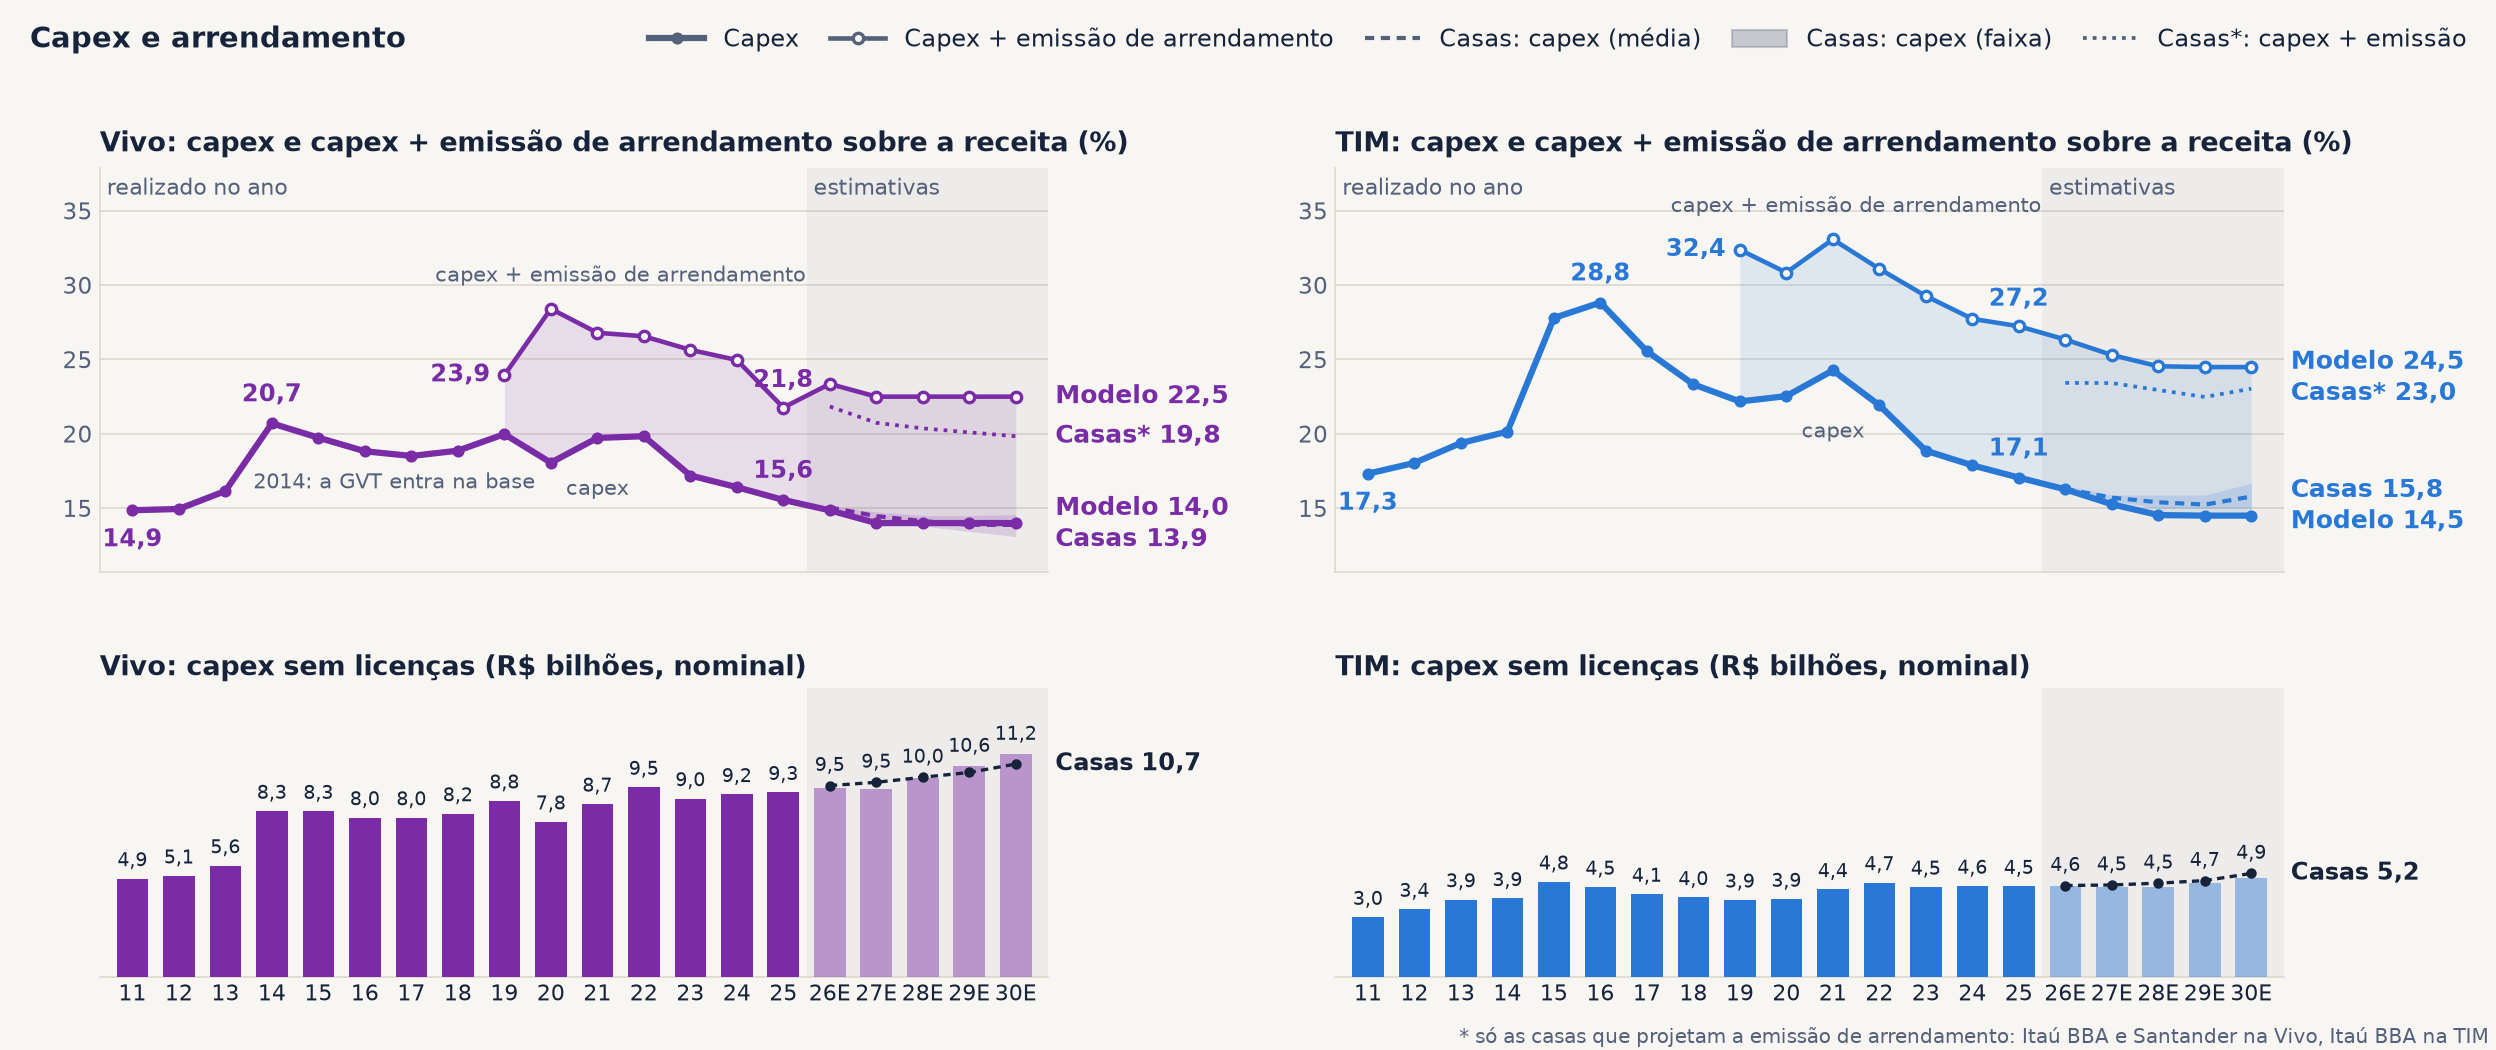
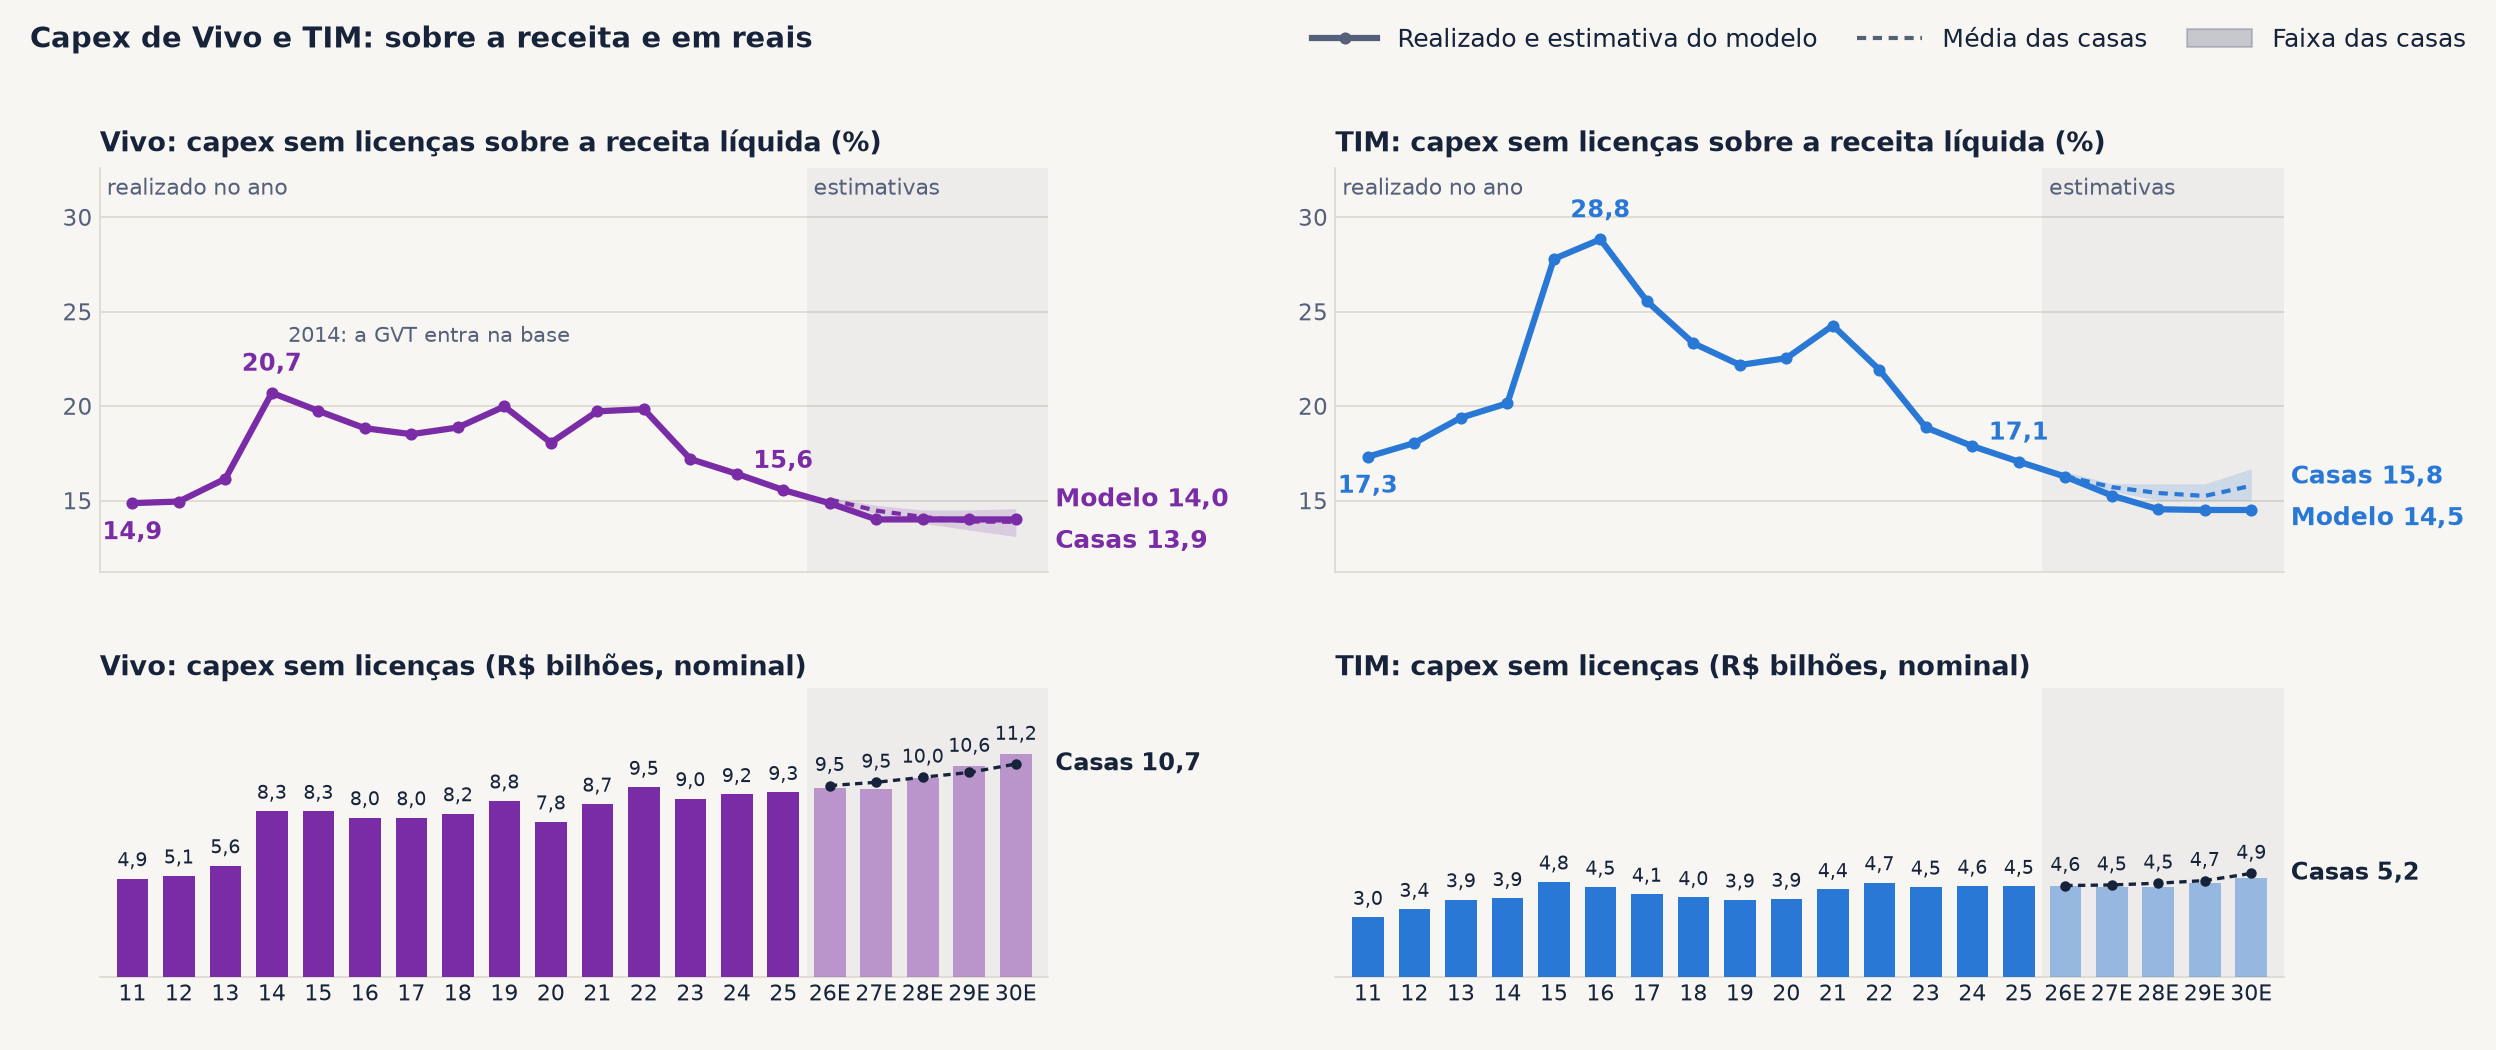
v5.0 - 24/11/2026 22:08 - dois slides de investimento: capex e capex + emissao
Slide 10 volta a ser so capex (razao desde 2011 e nominal). Slide 11 novo:
capex + emissao de arrendamento de 2019 a 2030E, empilhados, sobre a receita
e em R$ bilhoes, modelo contra as casas que projetam a emissao.

diff --git a/index.html b/index.html
@@ -40,7 +40,7 @@ h1, h2, h3 { font-family:'Space Grotesk', Arial, sans-serif; }
 <div id="palco">
 <section id="capa" class="capa" data-transition="fade">
 <div>
-<p class="chip">v4.9 · 24/11/2026 22:02</p>
+<p class="chip">v5.0 · 24/11/2026 22:08</p>
 </div>
 <div>
 <h1>Telecom Brasil: Vivo e TIM</h1>
@@ -105,11 +105,18 @@ h1, h2, h3 { font-family:'Space Grotesk', Arial, sans-serif; }
 <aside>Vivo: 9,7% em 2025; o modelo projeta 6,6% em 2026E e 2027E e 5,7% de 2028E em diante. Fica abaixo das casas em 2026E (7,4% a 8,3%), dentro em 2027E e 2028E e acima em 2029E e 2030E (3,0% a 5,3% em 2030E). TIM: 6,9% em 2025; o modelo projeta 6,3%, 5,8%, 6,1%, 4,9% e 4,2%. Dentro da faixa em 2026E e 2027E e acima de 2028E em diante (4,2% a 4,7% em 2028E; 3,7% a 4,1% em 2030E).</aside>
 </section>
 <section id="capex" data-transition="fade">
-<p class="olho">4 · CAPEX E EMISSÃO DE ARRENDAMENTO: SOBRE A RECEITA E EM REAIS</p>
-<h2 class="titulo">Capex cai para 15,6% da receita na Vivo e 17,1% na TIM; com a emissão de arrendamento o total é 21,8% e 27,2%, e o modelo mantém 22,5% e 24,5%</h2>
-<img class="graf" src="img/v7_capex.png" alt="Quatro gráficos de 2011 a 2030 estimado. Em cima, na mesma escala, o capex sem licenças sobre a receita líquida de Vivo e TIM e, de 2019 em diante, o capex mais a emissão de arrendamento, com a estimativa do modelo, a média e a faixa das casas para o capex e a média das casas que projetam a emissão. Embaixo, na mesma escala, o capex sem licenças em bilhões de reais nominais por ano, em barras, com a estimativa do modelo e a média das casas">
-<p class="fonte">Fonte: planilhas de RI, releases e modelos de 24/11/2026. Capex sem licenças; Vivo com a GVT de 2014 em diante (pro forma). Casas: Itaú BBA, BBI, BTG, Santander e, na Vivo, UBS. Emissão de arrendamento: só Itaú BBA e Santander (Vivo) e Itaú BBA (TIM).</p>
-<aside>Capex sem licenças sobre a receita. Vivo: 14,9% em 2011 e 2012, 16,2% em 2013, pico de 20,7% em 2014 (ano em que a GVT entra na base, pro forma), 19,7% em 2015, 18,8% em 2016, 18,5% em 2017, 18,9% em 2018, 20,0% em 2019, 18,1% em 2020, 19,7% em 2021, 19,8% em 2022, 17,2% em 2023, 16,4% em 2024 e 15,6% em 2025. TIM: 17,3% em 2011, 18,0% em 2012, 19,4% em 2013, 20,1% em 2014, 27,8% em 2015, pico de 28,8% em 2016, 25,6% em 2017, 23,3% em 2018, 22,2% em 2019, 22,5% em 2020, 24,3% em 2021, 21,9% em 2022, 18,9% em 2023, 17,9% em 2024 e 17,1% em 2025. Dois ciclos: a rede 4G em 2014-2016 (na TIM com a receita caindo de R$ 20,0 bilhões em 2013 para R$ 15,6 bilhões em 2016) e o 5G com fibra em 2019-2022. Em reais nominais: Vivo de R$ 4,9 bilhões em 2011 para R$ 8,3 bilhões em 2014 e 2015, R$ 8,8 bilhões em 2019, R$ 9,5 bilhões em 2022 e R$ 9,3 bilhões em 2025; TIM de R$ 3,0 bilhões em 2011 para R$ 4,8 bilhões em 2015, R$ 3,9 bilhões em 2019, R$ 4,7 bilhões em 2022 e R$ 4,5 bilhões em 2025. Em dez anos (2015 a 2025) o capex nominal sobe 11% na Vivo e cai 5% na TIM, com a receita subindo 41% e 55%: a queda da razão desde 2022 é receita, não corte. Em reais de 2025 o capex cai de R$ 14,1 bilhões para R$ 9,3 bilhões na Vivo e de R$ 8,1 bilhões para R$ 4,5 bilhões na TIM entre 2015 e 2025. Estimativas. Vivo: o modelo põe 14,9% em 2026E e 14,0% de 2027E a 2030E (premissa baixada de 14,5% para 14,0% em 24/11/2026), com o capex parado em R$ 9,5 bilhões em 2026E e 2027E e subindo com a receita até R$ 11,2 bilhões em 2030E; casas em 15,1%, 14,5%, 14,1%, 13,9% e 13,9% (faixa de 13,1% a 14,6% em 2030E), com R$ 10,7 bilhões em 2030E; o modelo fica 0,5 ponto abaixo da média em 2027E, na média em 2028E e 0,1 acima em 2030E, com R$ 0,5 bilhão a mais de capex que a média das casas em 2030E. TIM: o modelo põe 16,3%, 15,3% e 14,5% de 2028E a 2030E, com o capex em R$ 4,5 bilhões em 2027E e 2028E e R$ 4,9 bilhões em 2030E; casas em 16,3%, 15,7%, 15,4%, 15,2% e 15,8% (faixa de 15,0% a 16,7% em 2030E), com R$ 5,2 bilhões em 2030E; o modelo fica 1,3 ponto abaixo da média e abaixo da casa mais baixa de 2028E em diante. Os 14,0% da Vivo e os 14,5% da TIM no modelo são o menor nível de cada série desde 2011 (a Vivo teve 14,9% em 2011 e 2012, antes da GVT). Fontes do realizado: Vivo pelo modelo até 2018 e pelo capex sem licenças da planilha de RI de 2019 em diante; TIM pelo modelo, com o capex orgânico de 2012 e 2014 dos releases e 2021 pelo capex sem licenças da companhia (R$ 4,38 bilhões). Capex mais emissão de arrendamento sobre a receita (de 2019 em diante, com o IFRS 16). Vivo: 23,9% em 2019, 28,4% em 2020, 26,8% em 2021, 26,6% em 2022, 25,6% em 2023, 25,0% em 2024 e 21,8% em 2025; a emissão sozinha foi 4,0%, 10,3%, 7,1%, 6,7%, 8,4%, 8,5% e 6,2% da receita, e 9,2% nos 12 meses até o 3T26. O modelo emite 8,5% da receita de 2026E em diante e fica em 23,4% em 2026E e 22,5% de 2027E a 2030E. As duas casas que projetam a emissão (Itaú BBA e Santander) ficam em 21,8%, 20,7%, 20,4%, 20,1% e 19,8% na média, com emissão perto de 6% da receita; o modelo fica 2,7 pontos acima em 2030E, quase tudo pela emissão. TIM: 32,4% em 2019, 30,8% em 2020, 33,1% em 2021, 31,1% em 2022, 29,3% em 2023, 27,7% em 2024 e 27,2% em 2025; a emissão foi 10,2%, 8,3%, 8,8%, 9,2%, 10,4%, 9,8% e 10,2% da receita. O modelo emite 10,0% da receita e fica em 26,3% em 2026E, 25,3% em 2027E e 24,5% de 2028E a 2030E. O Itaú BBA, única casa que projeta a emissão da TIM, fica em 23,4%, 23,4%, 22,9%, 22,5% e 23,0%, com emissão de 7,5% da receita; o modelo fica 1,5 ponto acima em 2030E, com capex menor e emissão maior. Leitura: o capex sobre a receita caiu 4,4 pontos na Vivo e 5,1 na TIM de 2019 a 2025, mas o total com arrendamento caiu 2,1 e 5,2 pontos; na Vivo, metade da queda do capex foi trocada por arrendamento. A emissão é volátil de um ano para o outro, mistura contrato novo com renovação e reajuste e não pega contrato de serviço; vale mais a média de alguns anos que o ano isolado. As barras de baixo seguem só com o capex.</aside>
+<p class="olho">4 · CAPEX: SOBRE A RECEITA E EM REAIS, MODELO CONTRA AS CASAS</p>
+<h2 class="titulo">Capex: pico de 20,7% da receita na Vivo (2014) e 28,8% na TIM (2016), hoje 15,6% e 17,1%; em reais, quase parado desde 2015; o modelo vai a 14,0% e 14,5%</h2>
+<img class="graf" src="img/v7_capex.png" alt="Quatro gráficos de 2011 a 2030 estimado. Em cima, na mesma escala, o capex sem licenças sobre a receita líquida de Vivo e TIM, com a estimativa do modelo, a média das casas e a faixa das casas. Embaixo, na mesma escala, o capex sem licenças em bilhões de reais nominais por ano, em barras, com a estimativa do modelo e a média das casas">
+<p class="fonte">Fonte: planilhas de RI, releases e modelos de 24/11/2026. Capex sem licenças; Vivo com a GVT de 2014 em diante (pro forma). Casas: Itaú BBA, BBI, BTG, Santander e, na Vivo, UBS. UBS só até 2028E.</p>
+<aside>Capex sem licenças sobre a receita. Vivo: 14,9% em 2011 e 2012, 16,2% em 2013, pico de 20,7% em 2014 (ano em que a GVT entra na base, pro forma), 19,7% em 2015, 18,8% em 2016, 18,5% em 2017, 18,9% em 2018, 20,0% em 2019, 18,1% em 2020, 19,7% em 2021, 19,8% em 2022, 17,2% em 2023, 16,4% em 2024 e 15,6% em 2025. TIM: 17,3% em 2011, 18,0% em 2012, 19,4% em 2013, 20,1% em 2014, 27,8% em 2015, pico de 28,8% em 2016, 25,6% em 2017, 23,3% em 2018, 22,2% em 2019, 22,5% em 2020, 24,3% em 2021, 21,9% em 2022, 18,9% em 2023, 17,9% em 2024 e 17,1% em 2025. Dois ciclos: a rede 4G em 2014-2016 (na TIM com a receita caindo de R$ 20,0 bilhões em 2013 para R$ 15,6 bilhões em 2016) e o 5G com fibra em 2019-2022. Em reais nominais: Vivo de R$ 4,9 bilhões em 2011 para R$ 8,3 bilhões em 2014 e 2015, R$ 8,8 bilhões em 2019, R$ 9,5 bilhões em 2022 e R$ 9,3 bilhões em 2025; TIM de R$ 3,0 bilhões em 2011 para R$ 4,8 bilhões em 2015, R$ 3,9 bilhões em 2019, R$ 4,7 bilhões em 2022 e R$ 4,5 bilhões em 2025. Em dez anos (2015 a 2025) o capex nominal sobe 11% na Vivo e cai 5% na TIM, com a receita subindo 41% e 55%: a queda da razão desde 2022 é receita, não corte. Em reais de 2025 o capex cai de R$ 14,1 bilhões para R$ 9,3 bilhões na Vivo e de R$ 8,1 bilhões para R$ 4,5 bilhões na TIM entre 2015 e 2025. Estimativas. Vivo: o modelo põe 14,9% em 2026E e 14,0% de 2027E a 2030E (premissa baixada de 14,5% para 14,0% em 24/11/2026), com o capex parado em R$ 9,5 bilhões em 2026E e 2027E e subindo com a receita até R$ 11,2 bilhões em 2030E; casas em 15,1%, 14,5%, 14,1%, 13,9% e 13,9% (faixa de 13,1% a 14,6% em 2030E), com R$ 10,7 bilhões em 2030E; o modelo fica 0,5 ponto abaixo da média em 2027E, na média em 2028E e 0,1 acima em 2030E, com R$ 0,5 bilhão a mais de capex que a média das casas em 2030E. TIM: o modelo põe 16,3%, 15,3% e 14,5% de 2028E a 2030E, com o capex em R$ 4,5 bilhões em 2027E e 2028E e R$ 4,9 bilhões em 2030E; casas em 16,3%, 15,7%, 15,4%, 15,2% e 15,8% (faixa de 15,0% a 16,7% em 2030E), com R$ 5,2 bilhões em 2030E; o modelo fica 1,3 ponto abaixo da média e abaixo da casa mais baixa de 2028E em diante. Os 14,0% da Vivo e os 14,5% da TIM no modelo são o menor nível de cada série desde 2011 (a Vivo teve 14,9% em 2011 e 2012, antes da GVT). Fontes do realizado: Vivo pelo modelo até 2018 e pelo capex sem licenças da planilha de RI de 2019 em diante; TIM pelo modelo, com o capex orgânico de 2012 e 2014 dos releases e 2021 pelo capex sem licenças da companhia (R$ 4,38 bilhões). A emissão de arrendamento está no slide seguinte.</aside>
+</section>
+<section id="capex-emis" data-transition="fade">
+<p class="olho">4 · CAPEX MAIS EMISSÃO DE ARRENDAMENTO: MODELO CONTRA AS CASAS</p>
+<h2 class="titulo">Com a emissão de arrendamento, o investimento é 21,8% da receita na Vivo e 27,2% na TIM em 2025; o modelo mantém 22,5% e 24,5%, acima das casas</h2>
+<img class="graf" src="img/v7b_capex_emissao.png" alt="Quatro gráficos de 2019 a 2030 estimado, Vivo e TIM na mesma escala. Em cima, capex e emissão de arrendamento sobre a receita líquida, empilhados, com a linha do total, a estimativa do modelo e a média das casas que projetam a emissão. Embaixo, capex e emissão de arrendamento em bilhões de reais nominais, em barras empilhadas, com o total em cima de cada barra e a média das mesmas casas">
+<p class="fonte">Fonte: planilhas de RI e modelos de 24/11/2026. Capex sem licenças; emissão = adições de arrendamento do ano (IFRS 16, desde 2019). Casas*: só as que projetam a emissão (Itaú BBA e Santander na Vivo, Itaú BBA na TIM).</p>
+<aside>Capex mais emissão de arrendamento sobre a receita. Vivo: 23,9% em 2019, 28,4% em 2020, 26,8% em 2021, 26,6% em 2022, 25,6% em 2023, 25,0% em 2024 e 21,8% em 2025; a emissão sozinha foi 4,0%, 10,3%, 7,1%, 6,7%, 8,4%, 8,5% e 6,2% da receita, e 9,2% nos 12 meses até o 3T26 (total de 24,4%). Em reais: de R$ 10,6 bilhões em 2019 para R$ 13,9 bilhões em 2024 e R$ 13,0 bilhões em 2025, com a emissão indo de R$ 1,8 bilhão para R$ 4,8 bilhões e R$ 3,7 bilhões. O modelo emite 8,5% da receita de 2026E em diante: total de 23,4% em 2026E e 22,5% de 2027E a 2030E, de R$ 14,9 bilhões para R$ 18,0 bilhões. As duas casas que projetam a emissão (Itaú BBA e Santander) ficam em 21,8%, 20,7%, 20,4%, 20,1% e 19,8% na média, com emissão perto de 6% da receita e total de R$ 15,3 bilhões em 2030E; o modelo fica 2,7 pontos e R$ 2,7 bilhões acima em 2030E, quase tudo pela emissão. TIM: 32,4% em 2019, 30,8% em 2020, 33,1% em 2021, 31,1% em 2022, 29,3% em 2023, 27,7% em 2024 e 27,2% em 2025; a emissão foi 10,2%, 8,3%, 8,8%, 9,2%, 10,4%, 9,8% e 10,2% da receita. Em reais: de R$ 5,6 bilhões em 2019 para R$ 7,3 bilhões em 2025, com a emissão indo de R$ 1,8 bilhão para R$ 2,7 bilhões. O modelo emite 10,0% da receita: total de 26,3% em 2026E, 25,3% em 2027E e 24,5% de 2028E a 2030E, de R$ 7,4 bilhões para R$ 8,4 bilhões. O Itaú BBA, única casa que projeta a emissão da TIM, fica em 23,4%, 23,4%, 22,9%, 22,5% e 23,0%, com emissão de 7,5% da receita e total de R$ 7,5 bilhões em 2030E; o modelo fica 1,5 ponto e R$ 0,9 bilhão acima, com capex menor e emissão maior. Leitura: de 2019 a 2025 o capex sobre a receita caiu 4,4 pontos na Vivo e 5,1 na TIM, mas o total com arrendamento caiu 2,1 e 5,2 pontos; na Vivo, metade da queda do capex foi trocada por arrendamento, e nos 12 meses até o 3T26 o total está acima de 2019. A emissão é volátil de um ano para o outro, mistura contrato novo com renovação e reajuste e não pega contrato de serviço; vale mais a média de alguns anos que o ano isolado (Vivo 2021 a 2025: 7,4% da receita).</aside>
 </section>
 <section id="arrend" data-transition="fade">
 <p class="olho">4A · EMISSÃO DE ARRENDAMENTO × PAGAMENTO DE PRINCIPAL</p>

diff --git a/README.md b/README.md
@@ -1,3 +1,3 @@
 # Telecom Brasil: Vivo e TIM
 
-Deck de telecom (v4.9 · 24/11/2026 22:02): o setor contra a inflação e o PIB, receita, margem, EBITDA, capex e arrendamento, lucro, payout, Fistel e valuation de Vivo e TIM.
+Deck de telecom (v5.0 · 24/11/2026 22:08): o setor contra a inflação e o PIB, receita, margem, EBITDA, capex e arrendamento, lucro, payout, Fistel e valuation de Vivo e TIM.
